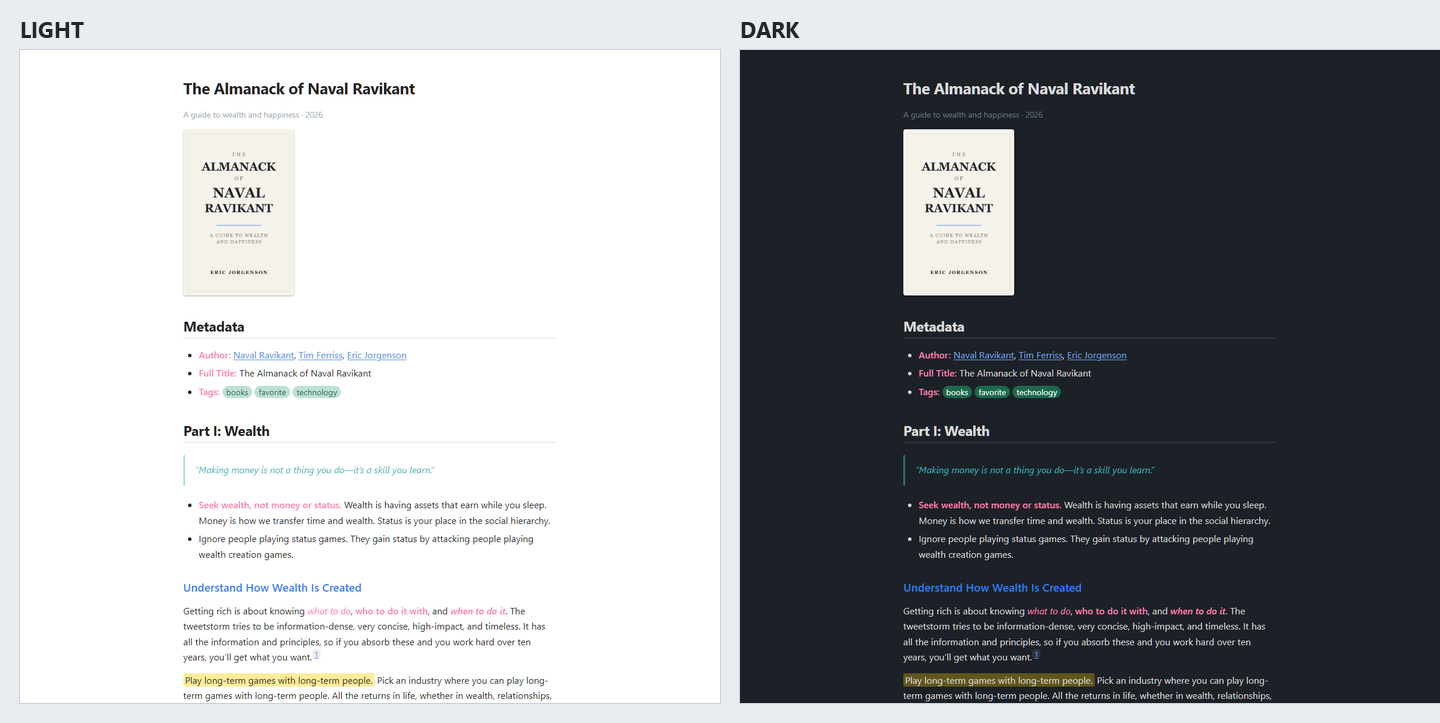
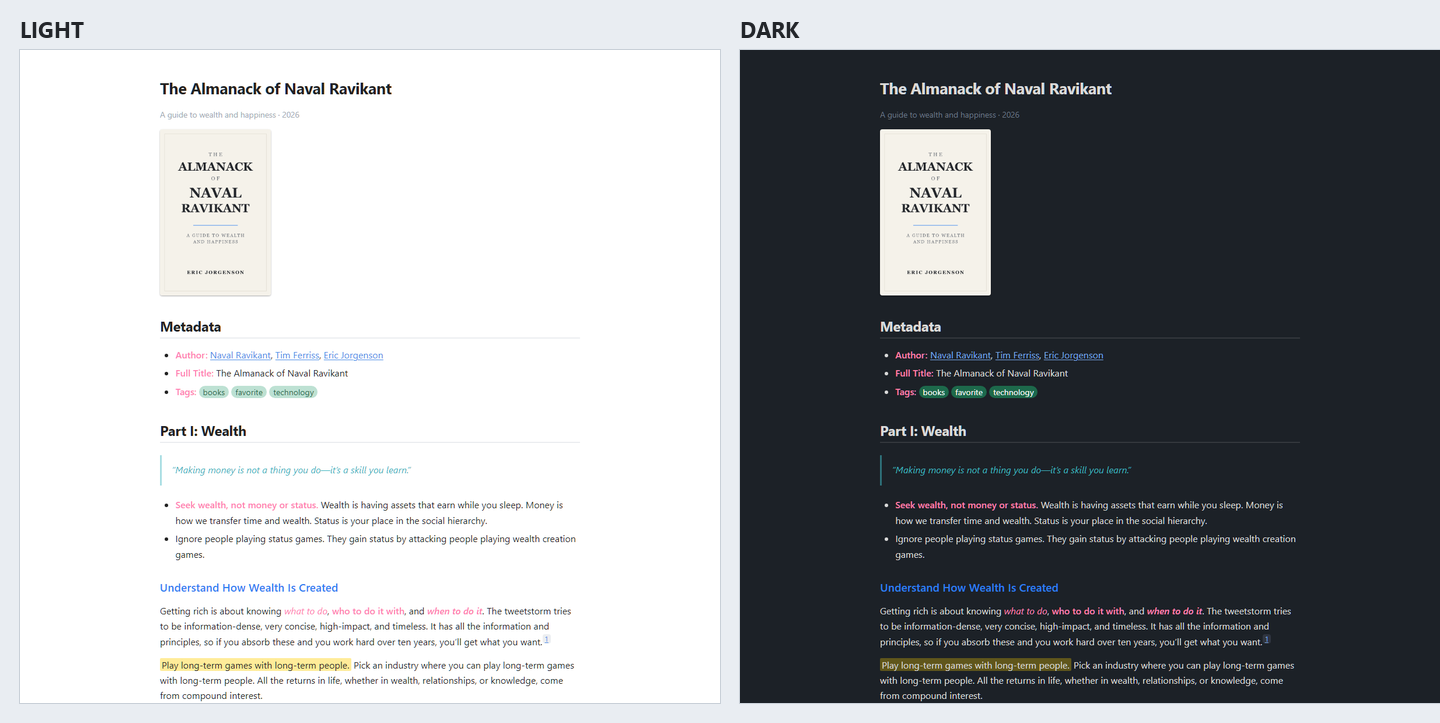
Set content width to 70% of editor area

diff --git a/themes/things-dark.css b/themes/things-dark.css
@@ -89,6 +89,9 @@
     "SFMono-Regular", Menlo, Consolas, "Liberation Mono", "Courier New",
     monospace;
 
+  /* Writing column: 70% of the editor area (the sidebar is outside #write). */
+  --things-content-width: 70%;
+
   /* Typora application variables */
   --bg-color: var(--things-bg);
   --text-color: var(--things-text);
@@ -198,7 +201,8 @@ content {
 }
 
 #write {
-  max-width: 760px;
+  width: var(--things-content-width);
+  max-width: none;
   margin: 0 auto;
   padding: 48px 60px 120px;
   font-family: var(--things-font-text);
@@ -215,6 +219,7 @@ content {
 
 @media screen and (max-width: 760px) {
   #write {
+    width: auto;
     padding: 28px 24px 80px;
   }
 }
@@ -1214,6 +1219,7 @@ content {
 
   #write,
   body.typora-export #write {
+    width: auto;
     max-width: 700px;
     margin: 0 auto;
     padding: 0;

diff --git a/themes/things-light.css b/themes/things-light.css
@@ -89,6 +89,9 @@
     "SFMono-Regular", Menlo, Consolas, "Liberation Mono", "Courier New",
     monospace;
 
+  /* Writing column: 70% of the editor area (the sidebar is outside #write). */
+  --things-content-width: 70%;
+
   /* Typora application variables */
   --bg-color: var(--things-bg);
   --text-color: var(--things-text);
@@ -198,7 +201,8 @@ content {
 }
 
 #write {
-  max-width: 760px;
+  width: var(--things-content-width);
+  max-width: none;
   margin: 0 auto;
   padding: 48px 60px 120px;
   font-family: var(--things-font-text);
@@ -215,6 +219,7 @@ content {
 
 @media screen and (max-width: 760px) {
   #write {
+    width: auto;
     padding: 28px 24px 80px;
   }
 }
@@ -1214,6 +1219,7 @@ content {
 
   #write,
   body.typora-export #write {
+    width: auto;
     max-width: 700px;
     margin: 0 auto;
     padding: 0;

diff --git a/src/base.css b/src/base.css
@@ -67,7 +67,8 @@ content {
 }
 
 #write {
-  max-width: 760px;
+  width: var(--things-content-width);
+  max-width: none;
   margin: 0 auto;
   padding: 48px 60px 120px;
   font-family: var(--things-font-text);
@@ -84,6 +85,7 @@ content {
 
 @media screen and (max-width: 760px) {
   #write {
+    width: auto;
     padding: 28px 24px 80px;
   }
 }
@@ -1083,6 +1085,7 @@ content {
 
   #write,
   body.typora-export #write {
+    width: auto;
     max-width: 700px;
     margin: 0 auto;
     padding: 0;

diff --git a/src/tokens-dark.css b/src/tokens-dark.css
@@ -76,6 +76,9 @@
     "SFMono-Regular", Menlo, Consolas, "Liberation Mono", "Courier New",
     monospace;
 
+  /* Writing column: 70% of the editor area (the sidebar is outside #write). */
+  --things-content-width: 70%;
+
   /* Typora application variables */
   --bg-color: var(--things-bg);
   --text-color: var(--things-text);

diff --git a/src/tokens-light.css b/src/tokens-light.css
@@ -76,6 +76,9 @@
     "SFMono-Regular", Menlo, Consolas, "Liberation Mono", "Courier New",
     monospace;
 
+  /* Writing column: 70% of the editor area (the sidebar is outside #write). */
+  --things-content-width: 70%;
+
   /* Typora application variables */
   --bg-color: var(--things-bg);
   --text-color: var(--things-text);

diff --git a/README.md b/README.md
@@ -14,6 +14,7 @@
 - **Things 标题体系**：H1/H2 使用正文色，H2 带下划线，H3 蓝色，H4 琥珀色大写，H5 红色，H6 灰色大写。
 - **正文强调**：粗体与斜体使用 Things 粉色 `#ff82b2`，引用使用青色 `#3eb4bf` 并带左侧竖线。
 - **One Dark 代码**：行内代码、代码块和语法高亮分别处理；等宽字体优先使用内置的 JetBrains Mono。
+- **正文宽度**：默认占编辑区（不含侧边栏）的 70%，由 `--things-content-width` 控制。
 - **Typora 细节**：任务复选框、标签胶囊、图片卡片、表格斑马纹、脚注、TOC、YAML front matter、搜索高亮、专注模式、侧边栏与菜单配色。
 - **打印友好**：从深色主题导出 PDF 时自动切换为浅色页面，代码块与表格背景会保留。
 - **无依赖**：主题是纯 CSS；内置字体只是可选项，不复制 `things/` 文件夹也能正常工作。
@@ -66,6 +67,7 @@ Typora 和 Obsidian 的渲染结构不同，因此这不是像素级复刻：
   --things-pink: #ff82b2;     /* 粗体、斜体 */
   --things-quote: #3eb4bf;    /* 引用文字 */
   --things-code-block-bg: #f0f2f5;
+  --things-content-width: 70%; /* 正文宽度（相对编辑区） */
   --things-font-text: ...;
 }
 ```
